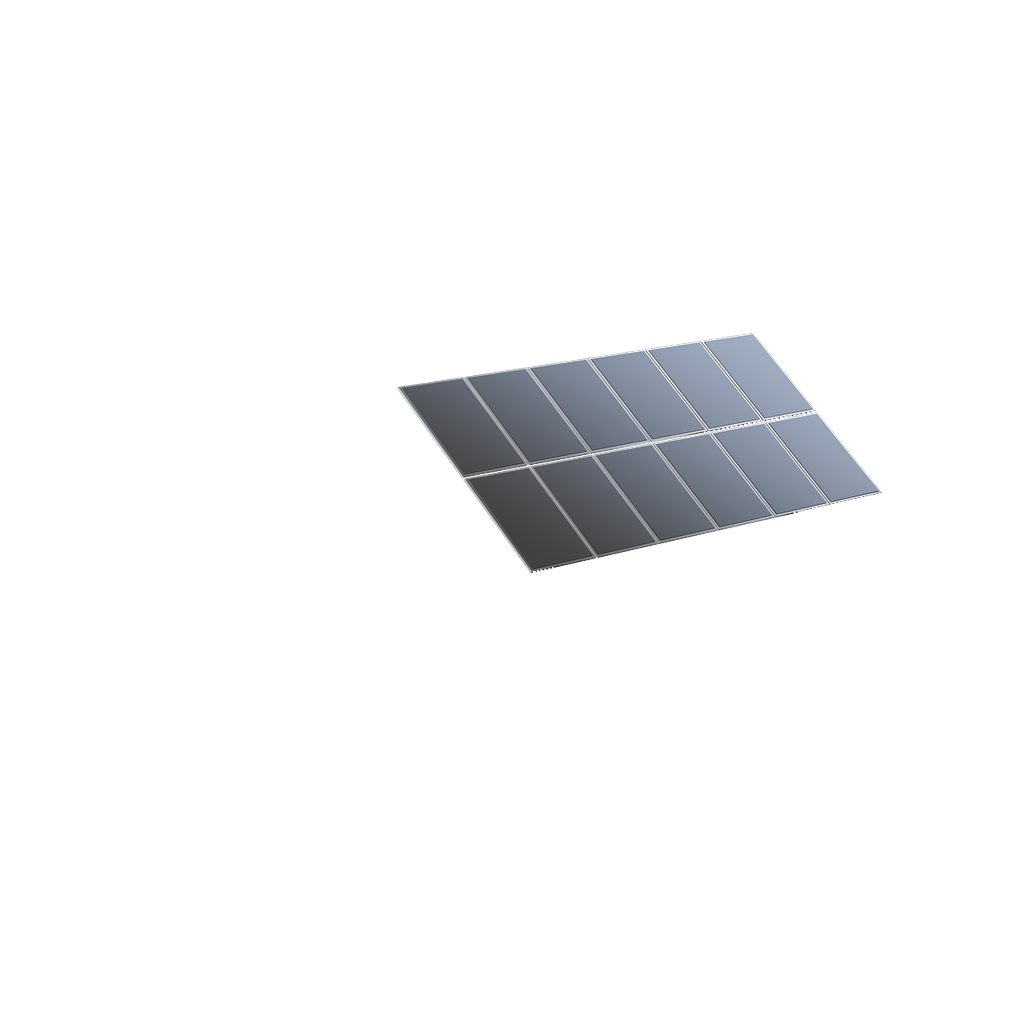
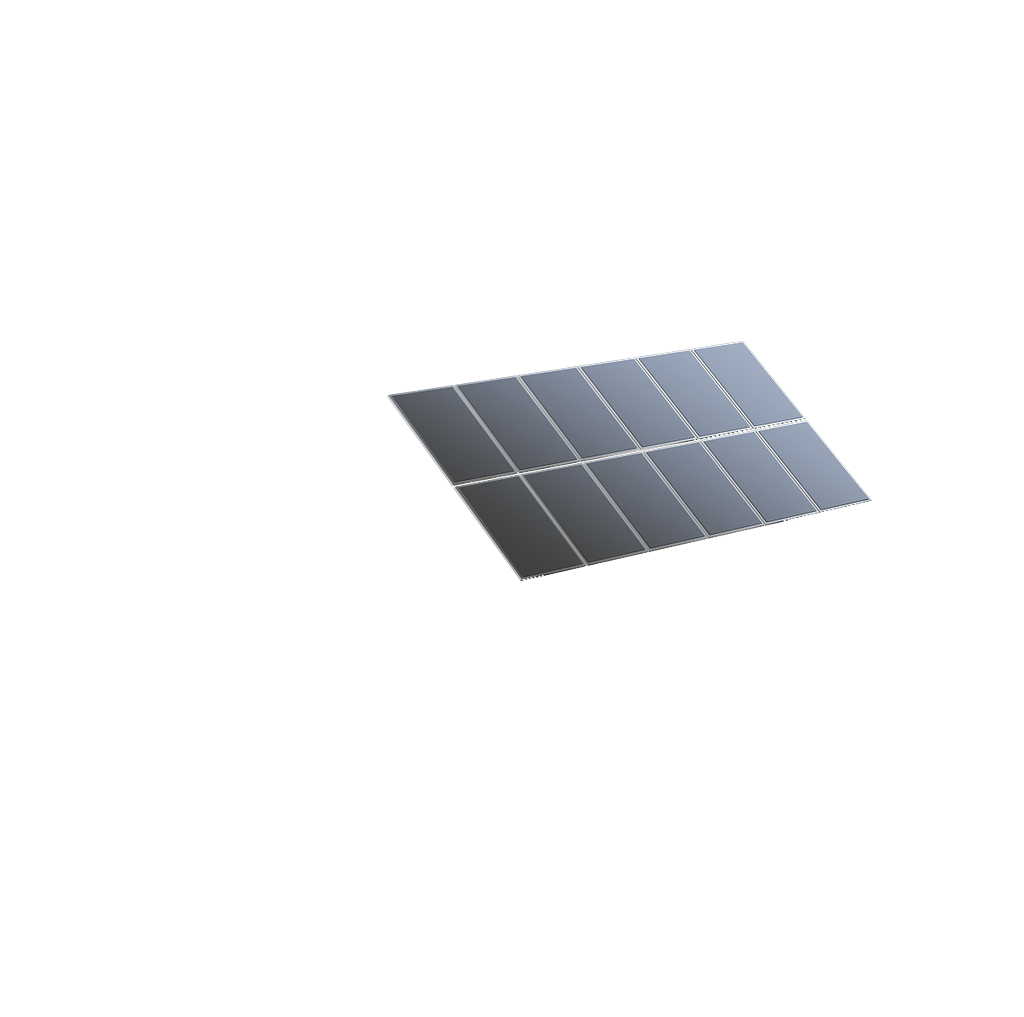
Nudge PV down and left on roof v0.8.95

Changed region(s): [[0.375, 0.3048, 0.875, 0.5792]]

diff --git a/custom_components/foxess_plant/www/foxess-plant-panel.js b/custom_components/foxess_plant/www/foxess-plant-panel.js
@@ -1,7 +1,7 @@
 /**
  * FoxESS Plant panel — HA sidebar app (phases 5a–5e).
  * hass / narrow / panel / route from Home Assistant.
- * @version 0.8.94
+ * @version 0.8.95
  */
 
 const NAV = [
@@ -36,7 +36,7 @@ const FOX_FLOW_PATHS = {
 const FOX_FLOW_HUB_SPOKES = new Set(["solar-aio", "aio-hub", "hub-aio", "hub-home", "grid-hub", "hub-grid"]);
 
 const FLOW_PATHS_VER = "flow-solar-base";
-const PANEL_BUILD_FALLBACK = "0.8.94";
+const PANEL_BUILD_FALLBACK = "0.8.95";
 const PANEL_ELEMENT = `foxess-plant-panel-${PANEL_BUILD_FALLBACK.replace(/\./g, "_")}`;
 
 /** Register current and recent version tags so HACS updates never leave a blank panel. */
@@ -66,7 +66,7 @@ function registerFoxessPlantPanel() {
 const FLOW_STROKE = { base: 5, active: 6, hubR: 8 };
 const FLOW_DASH = "20 24";
 const FLOW_SCENE_PV_THRESHOLD_W = 40;
-const FLOW_SCENE_ASSET_VER = 25;
+const FLOW_SCENE_ASSET_VER = 26;
 
 const FLOW_SCENE_BG_THEMES = new Set([
   "day_light",

diff --git a/tools/flow_scene_place.py b/tools/flow_scene_place.py
@@ -17,8 +17,8 @@ BOXES = {
 DEFAULT_PV = {
     "scale_inset": 1.06,
     "at_box_origin": True,
-    "dx": 0,
-    "dy": -14,
+    "dx": -10,
+    "dy": -6,
 }
 
 